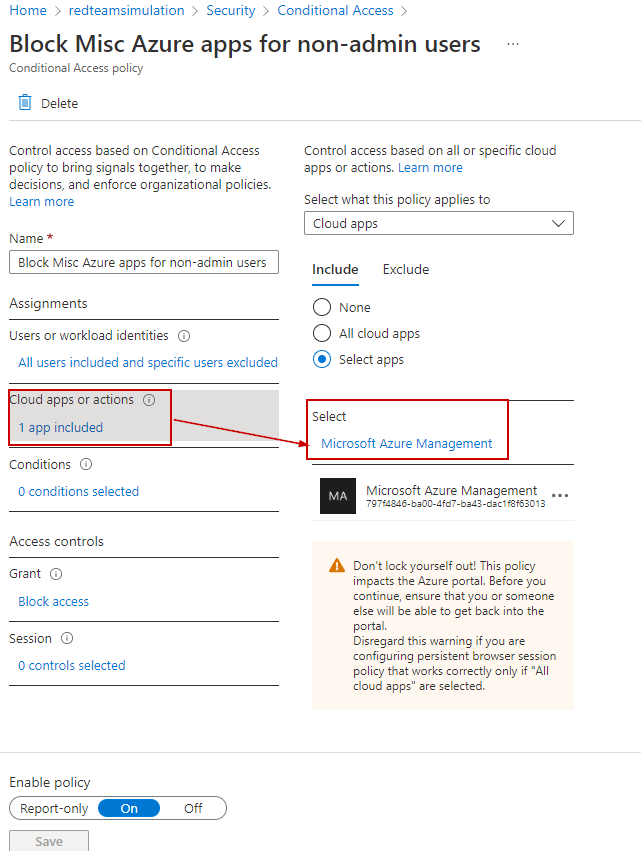
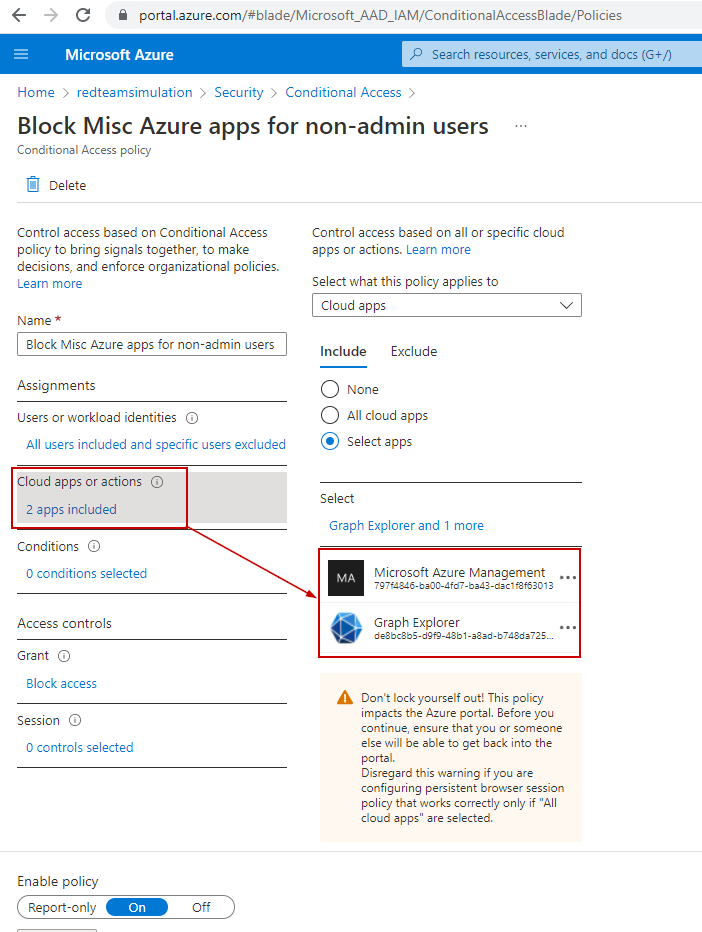
Updated with graph explorer block

diff --git a/site/O365SecurityImplementation/site/BlockMiscAzureServices/index.html b/site/O365SecurityImplementation/site/BlockMiscAzureServices/index.html
@@ -59,6 +59,11 @@
     <label class="md-overlay" for="__drawer"></label>
     <div data-md-component="skip">
       
+        
+        <a href="#blocking-the-graph-explorer-app-and-services-under-the-microsoft-azure-management-app" class="md-skip">
+          Skip to content
+        </a>
+      
     </div>
     <div data-md-component="announce">
       
@@ -331,9 +336,65 @@
       
       
       
+        <label class="md-nav__link md-nav__link--active" for="__toc">
+          Block Misc Azure Services for non-admin users
+          <span class="md-nav__icon md-icon"></span>
+        </label>
+      
       <a href="./" class="md-nav__link md-nav__link--active">
         Block Misc Azure Services for non-admin users
       </a>
+      
+        
+
+<nav class="md-nav md-nav--secondary" aria-label="Table of contents">
+  
+  
+  
+  
+    <label class="md-nav__title" for="__toc">
+      <span class="md-nav__icon md-icon"></span>
+      Table of contents
+    </label>
+    <ul class="md-nav__list" data-md-component="toc" data-md-scrollfix>
+      
+        <li class="md-nav__item">
+  <a href="#blocking-the-graph-explorer-app-and-services-under-the-microsoft-azure-management-app" class="md-nav__link">
+    Blocking the "Graph Explorer" app and services under the "Microsoft Azure Management" app.
+  </a>
+  
+</li>
+      
+        <li class="md-nav__item">
+  <a href="#tests" class="md-nav__link">
+    Tests
+  </a>
+  
+    <nav class="md-nav" aria-label="Tests">
+      <ul class="md-nav__list">
+        
+          <li class="md-nav__item">
+  <a href="#graph-explorer-access-denied-to-a-non-admin-user" class="md-nav__link">
+    Graph explorer access denied to a non-admin user
+  </a>
+  
+</li>
+        
+          <li class="md-nav__item">
+  <a href="#azure-portal-access-denied-to-a-non-admin-user" class="md-nav__link">
+    Azure portal access denied to a non-admin user
+  </a>
+  
+</li>
+        
+      </ul>
+    </nav>
+  
+</li>
+      
+    </ul>
+  
+</nav>
       
     </li>
   
@@ -346,6 +407,64 @@
               </div>
             
             
+              
+              <div class="md-sidebar md-sidebar--secondary" data-md-component="sidebar" data-md-type="toc" >
+                <div class="md-sidebar__scrollwrap">
+                  <div class="md-sidebar__inner">
+                    
+
+<nav class="md-nav md-nav--secondary" aria-label="Table of contents">
+  
+  
+  
+  
+    <label class="md-nav__title" for="__toc">
+      <span class="md-nav__icon md-icon"></span>
+      Table of contents
+    </label>
+    <ul class="md-nav__list" data-md-component="toc" data-md-scrollfix>
+      
+        <li class="md-nav__item">
+  <a href="#blocking-the-graph-explorer-app-and-services-under-the-microsoft-azure-management-app" class="md-nav__link">
+    Blocking the "Graph Explorer" app and services under the "Microsoft Azure Management" app.
+  </a>
+  
+</li>
+      
+        <li class="md-nav__item">
+  <a href="#tests" class="md-nav__link">
+    Tests
+  </a>
+  
+    <nav class="md-nav" aria-label="Tests">
+      <ul class="md-nav__list">
+        
+          <li class="md-nav__item">
+  <a href="#graph-explorer-access-denied-to-a-non-admin-user" class="md-nav__link">
+    Graph explorer access denied to a non-admin user
+  </a>
+  
+</li>
+        
+          <li class="md-nav__item">
+  <a href="#azure-portal-access-denied-to-a-non-admin-user" class="md-nav__link">
+    Azure portal access denied to a non-admin user
+  </a>
+  
+</li>
+        
+      </ul>
+    </nav>
+  
+</li>
+      
+    </ul>
+  
+</nav>
+                  </div>
+                </div>
+              </div>
+            
           
           <div class="md-content" data-md-component="content">
             <article class="md-content__inner md-typeset">
@@ -354,9 +473,11 @@
 
   <h1>Block Misc Azure Services for non-admin users</h1>
 
-<p>We would want to restrict access to various Azure services to non-admin users becuase they dont need that access. <br>
-Some of those services fall under the umbrella of an in built Azure App named "Microsoft Azure management".<br>
-So, if we block access to this app for non-admin users, the services under them will be unavailable to the non-admin users.<br>
+<h3 id="blocking-the-graph-explorer-app-and-services-under-the-microsoft-azure-management-app">Blocking the "Graph Explorer" app and services under the "Microsoft Azure Management" app.</h3>
+<p>We would want to restrict access to various Azure services to non-admin users because they don't need that access. <br>
+Graph Explorer is one of the apps we want to disable access to unless It's a business requirement not to do so. 
+Some of the other services fall under the umbrella of an in-built Azure App named "Microsoft Azure management".<br>
+So, if we block access to this app for non-admin users, the services under them will be unavailable to non-admin users.<br>
 <br>
 Below are the services under "Microsoft Azure management". <br></p>
 <ul>
@@ -375,7 +496,7 @@ Below are the services under "Microsoft Azure management". <br></p>
     <li>Visual Studio subscriptions administrator portal</li>
 </ul>
 <p>Source : <a href="https://docs.microsoft.com/en-us/azure/active-directory/conditional-access/concept-conditional-access-cloud-apps">https://docs.microsoft.com/en-us/azure/active-directory/conditional-access/concept-conditional-access-cloud-apps</a> <br></p>
-<p>Below is the PowerShell script to create the conditional access policy which would restrict access to above services to all users except admins.</p>
+<p>Below is the PowerShell script to create the conditional access policy which would restrict access to the above services to all users except admins.</p>
 <pre><code class="language-PowerShell"># Connect to AzureAD and get current logged in user
 $TenantDetails = $NULL
 $CurrentlyLoggedInUser = $NULL
@@ -404,7 +525,7 @@ $AdminRolesIds = Get-AzureADMSROleDefinition | Where-Object -FilterScript {$_.Di
 
 $conditions = New-Object -TypeName Microsoft.Open.MSGraph.Model.ConditionalAccessConditionSet
 $conditions.Applications = New-Object -TypeName Microsoft.Open.MSGraph.Model.ConditionalAccessApplicationCondition
-$conditions.Applications.IncludeApplications = &quot;797f4846-ba00-4fd7-ba43-dac1f8f63013&quot;
+$conditions.Applications.IncludeApplications = &quot;797f4846-ba00-4fd7-ba43-dac1f8f63013&quot;, &quot;de8bc8b5-d9f9-48b1-a8ad-b748da725064&quot;
 $conditions.Users = New-Object -TypeName Microsoft.Open.MSGraph.Model.ConditionalAccessUserCondition
 $conditions.Users.IncludeUsers = &quot;all&quot;
 $conditions.Users.ExcludeRoles = $AdminRolesIds
@@ -422,6 +543,15 @@ We can see the conditional access policy has been created to block ALL users(exc
         <td><img src="../../../images/o365security/block-misc-azure-services-02.png"></img></td>
     </tr>
 </table>
+
+<h3 id="tests">Tests</h3>
+<h4 id="graph-explorer-access-denied-to-a-non-admin-user">Graph explorer access denied to a non-admin user</h4>
+<p>Access is denied to the non-admin user.<br>
+<img src="../../../images/o365security/block-misc-azure-services-03.png">
+<br></p>
+<h4 id="azure-portal-access-denied-to-a-non-admin-user">Azure portal access denied to a non-admin user</h4>
+<p>Azure Portal (part of "Microsoft Azure Management" app) Access is denied to the non-admin user.<br>
+<img src="../../../images/o365security/block-misc-azure-services-03.png"></p>
 
               
             </article>

diff --git a/site/O365SecurityImplementation/site/DisableBasicAuth/index.html b/site/O365SecurityImplementation/site/DisableBasicAuth/index.html
@@ -335,6 +335,13 @@
 </li>
       
         <li class="md-nav__item">
+  <a href="#enable-modern-authentication" class="md-nav__link">
+    Enable Modern Authentication
+  </a>
+  
+</li>
+      
+        <li class="md-nav__item">
   <a href="#tests" class="md-nav__link">
     Tests
   </a>
@@ -467,6 +474,13 @@
 </li>
       
         <li class="md-nav__item">
+  <a href="#enable-modern-authentication" class="md-nav__link">
+    Enable Modern Authentication
+  </a>
+  
+</li>
+      
+        <li class="md-nav__item">
   <a href="#tests" class="md-nav__link">
     Tests
   </a>
@@ -516,17 +530,17 @@
   <h1>Disable basic authentication</h1>
 
 <h3 id="what-is-basic-authentication"><h2>What is Basic Authentication?</h2></h3>
-<p>User supplied user name and password are joined separated by a colon and base64 encoded. <br>
-The base64 encoded value is sent as HTTP header named "Authorization".<br>
-For example, if the user enters "admin" as user name and "P@ssw0rd" as password, the base64 encoded value would be "YWRtaW46UEBzc3cwcmQ"<br>
+<p>User-supplied username and password are joined and separated by a colon and base64 encoded. <br>
+The base64 encoded value is sent as an HTTP header named "Authorization".<br>
+For example, if the user enters "admin" as the user name and "P@ssw0rd" as the password, the base64 encoded value would be "YWRtaW46UEBzc3cwcmQ"<br>
 The HTTP header would be like the below :<br>
 Authorization: Basic YWRtaW46UEBzc3cwcmQ<br>
 <br></p>
 <h3 id="basiclegacyprotocolsauthentication-">Basic/Legacy/Protocols/Authentication???? :-$</h3>
 <p>Sometimes, It gets very confusing when terms like "basic" and "legacy" are used for both protocols and auth. <br>
 Therefore, It is very important to understand the difference between the messaging protocols vs the authentication mechanism. <br>
-The authentication mechanism is a part of messaging protocol which is also deals with how the messages would be exchanged between client and the server after authentication. <br></p>
-<p>Lets look at the IMAP4 protocol. <br>
+The authentication mechanism is a part of messaging protocol which also deals with how the messages would be exchanged between the client and the server after authentication. <br></p>
+<p>Let's look at the IMAP4 protocol. <br>
 <a href="https://datatracker.ietf.org/doc/html/rfc3501">https://datatracker.ietf.org/doc/html/rfc3501</a><br>
 <img src="../../../images/o365security/disable-basic-auth-10.png"></img><br></p>
 <p>You see the "Authenticated" step which means how clients would authenticate to the server and also the "Selected" step has the SELECT command selects a mailbox so that messages in the mailbox can be accessed. <br></p>
@@ -555,6 +569,10 @@ Go to <a href="https://admin.microsoft.com/">Microsoft 365 Admin Center</a> <br>
 Settings &gt; Org Settings &gt; Modern Authentication <br>
 All the settings except the "Turn on modern authentication for Outlook 2013 for Windows and later (recommended)" should be unchecked. <br>
 <img src="../../../images/o365security/disable-basic-auth-3.png"></img></p>
+<h3 id="enable-modern-authentication">Enable Modern Authentication</h3>
+<pre><code class="language-powershell">Set-OrganizationConfig -OAuth2ClientProfileEnabled $true
+</code></pre>
+<p><br></p>
 <h3 id="tests">Tests</h3>
 <h4 id="the-python-script">The Python Script</h4>
 <p>To test the basic authentication, we will make use of the below script which tries to authenticate to Exchange Online with a given set of users using Exchange Web Services (EWS).<br>

diff --git a/site/O365SecurityImplementation/docs/BlockMiscAzureServices.md b/site/O365SecurityImplementation/docs/BlockMiscAzureServices.md
@@ -1,7 +1,9 @@
 
-We would want to restrict access to various Azure services to non-admin users becuase they dont need that access. <br>
-Some of those services fall under the umbrella of an in built Azure App named "Microsoft Azure management".<br>
-So, if we block access to this app for non-admin users, the services under them will be unavailable to the non-admin users.<br>
+### Blocking the "Graph Explorer" app and services under the "Microsoft Azure Management" app.
+We would want to restrict access to various Azure services to non-admin users because they don't need that access. <br>
+Graph Explorer is one of the apps we want to disable access to unless It's a business requirement not to do so. 
+Some of the other services fall under the umbrella of an in-built Azure App named "Microsoft Azure management".<br>
+So, if we block access to this app for non-admin users, the services under them will be unavailable to non-admin users.<br>
 <br>
 Below are the services under "Microsoft Azure management". <br>
 
@@ -22,7 +24,7 @@ Below are the services under "Microsoft Azure management". <br>
 </ul>
 Source : <a href="https://docs.microsoft.com/en-us/azure/active-directory/conditional-access/concept-conditional-access-cloud-apps">https://docs.microsoft.com/en-us/azure/active-directory/conditional-access/concept-conditional-access-cloud-apps</a> <br>
 
-Below is the PowerShell script to create the conditional access policy which would restrict access to above services to all users except admins.
+Below is the PowerShell script to create the conditional access policy which would restrict access to the above services to all users except admins.
 
 ```PowerShell
 # Connect to AzureAD and get current logged in user
@@ -53,7 +55,7 @@ $AdminRolesIds = Get-AzureADMSROleDefinition | Where-Object -FilterScript {$_.Di
 
 $conditions = New-Object -TypeName Microsoft.Open.MSGraph.Model.ConditionalAccessConditionSet
 $conditions.Applications = New-Object -TypeName Microsoft.Open.MSGraph.Model.ConditionalAccessApplicationCondition
-$conditions.Applications.IncludeApplications = "797f4846-ba00-4fd7-ba43-dac1f8f63013"
+$conditions.Applications.IncludeApplications = "797f4846-ba00-4fd7-ba43-dac1f8f63013", "de8bc8b5-d9f9-48b1-a8ad-b748da725064"
 $conditions.Users = New-Object -TypeName Microsoft.Open.MSGraph.Model.ConditionalAccessUserCondition
 $conditions.Users.IncludeUsers = "all"
 $conditions.Users.ExcludeRoles = $AdminRolesIds
@@ -72,3 +74,13 @@ We can see the conditional access policy has been created to block ALL users(exc
         <td><img src="../../../images/o365security/block-misc-azure-services-02.png"></img></td>
     </tr>
 </table>
+
+### Tests
+#### Graph explorer access denied to a non-admin user
+Access is denied to the non-admin user.<br>
+<img src="../../../images/o365security/block-misc-azure-services-03.png">
+<br>
+
+#### Azure portal access denied to a non-admin user
+Azure Portal (part of "Microsoft Azure Management" app) Access is denied to the non-admin user.<br>
+<img src="../../../images/o365security/block-misc-azure-services-03.png">

diff --git a/site/O365SecurityImplementation/docs/DisableBasicAuth.md b/site/O365SecurityImplementation/docs/DisableBasicAuth.md
@@ -1,7 +1,7 @@
 ###<h2>What is Basic Authentication?</h2>
-User supplied user name and password are joined separated by a colon and base64 encoded. <br>
-The base64 encoded value is sent as HTTP header named "Authorization".<br>
-For example, if the user enters "admin" as user name and "P@ssw0rd" as password, the base64 encoded value would be "YWRtaW46UEBzc3cwcmQ"<br>
+User-supplied username and password are joined and separated by a colon and base64 encoded. <br>
+The base64 encoded value is sent as an HTTP header named "Authorization".<br>
+For example, if the user enters "admin" as the user name and "P@ssw0rd" as the password, the base64 encoded value would be "YWRtaW46UEBzc3cwcmQ"<br>
 The HTTP header would be like the below :<br>
 Authorization: Basic YWRtaW46UEBzc3cwcmQ<br>
 <br>
@@ -9,9 +9,9 @@ Authorization: Basic YWRtaW46UEBzc3cwcmQ<br>
 ### Basic/Legacy/Protocols/Authentication???? :-$
 Sometimes, It gets very confusing when terms like "basic" and "legacy" are used for both protocols and auth. <br>
 Therefore, It is very important to understand the difference between the messaging protocols vs the authentication mechanism. <br>
-The authentication mechanism is a part of messaging protocol which is also deals with how the messages would be exchanged between client and the server after authentication. <br>
+The authentication mechanism is a part of messaging protocol which also deals with how the messages would be exchanged between the client and the server after authentication. <br>
 
-Lets look at the IMAP4 protocol. <br>
+Let's look at the IMAP4 protocol. <br>
 <a href="https://datatracker.ietf.org/doc/html/rfc3501">https://datatracker.ietf.org/doc/html/rfc3501</a><br>
 <img src="../../../images/o365security/disable-basic-auth-10.png"></img><br>
 
@@ -57,7 +57,12 @@ Settings > Org Settings > Modern Authentication <br>
 All the settings except the "Turn on modern authentication for Outlook 2013 for Windows and later (recommended)" should be unchecked. <br>
 <img src="../../../images/o365security/disable-basic-auth-3.png"></img>
 
+### Enable Modern Authentication
 
+```powershell
+Set-OrganizationConfig -OAuth2ClientProfileEnabled $true
+```
+<br>
 ### Tests
 
 #### The Python Script
